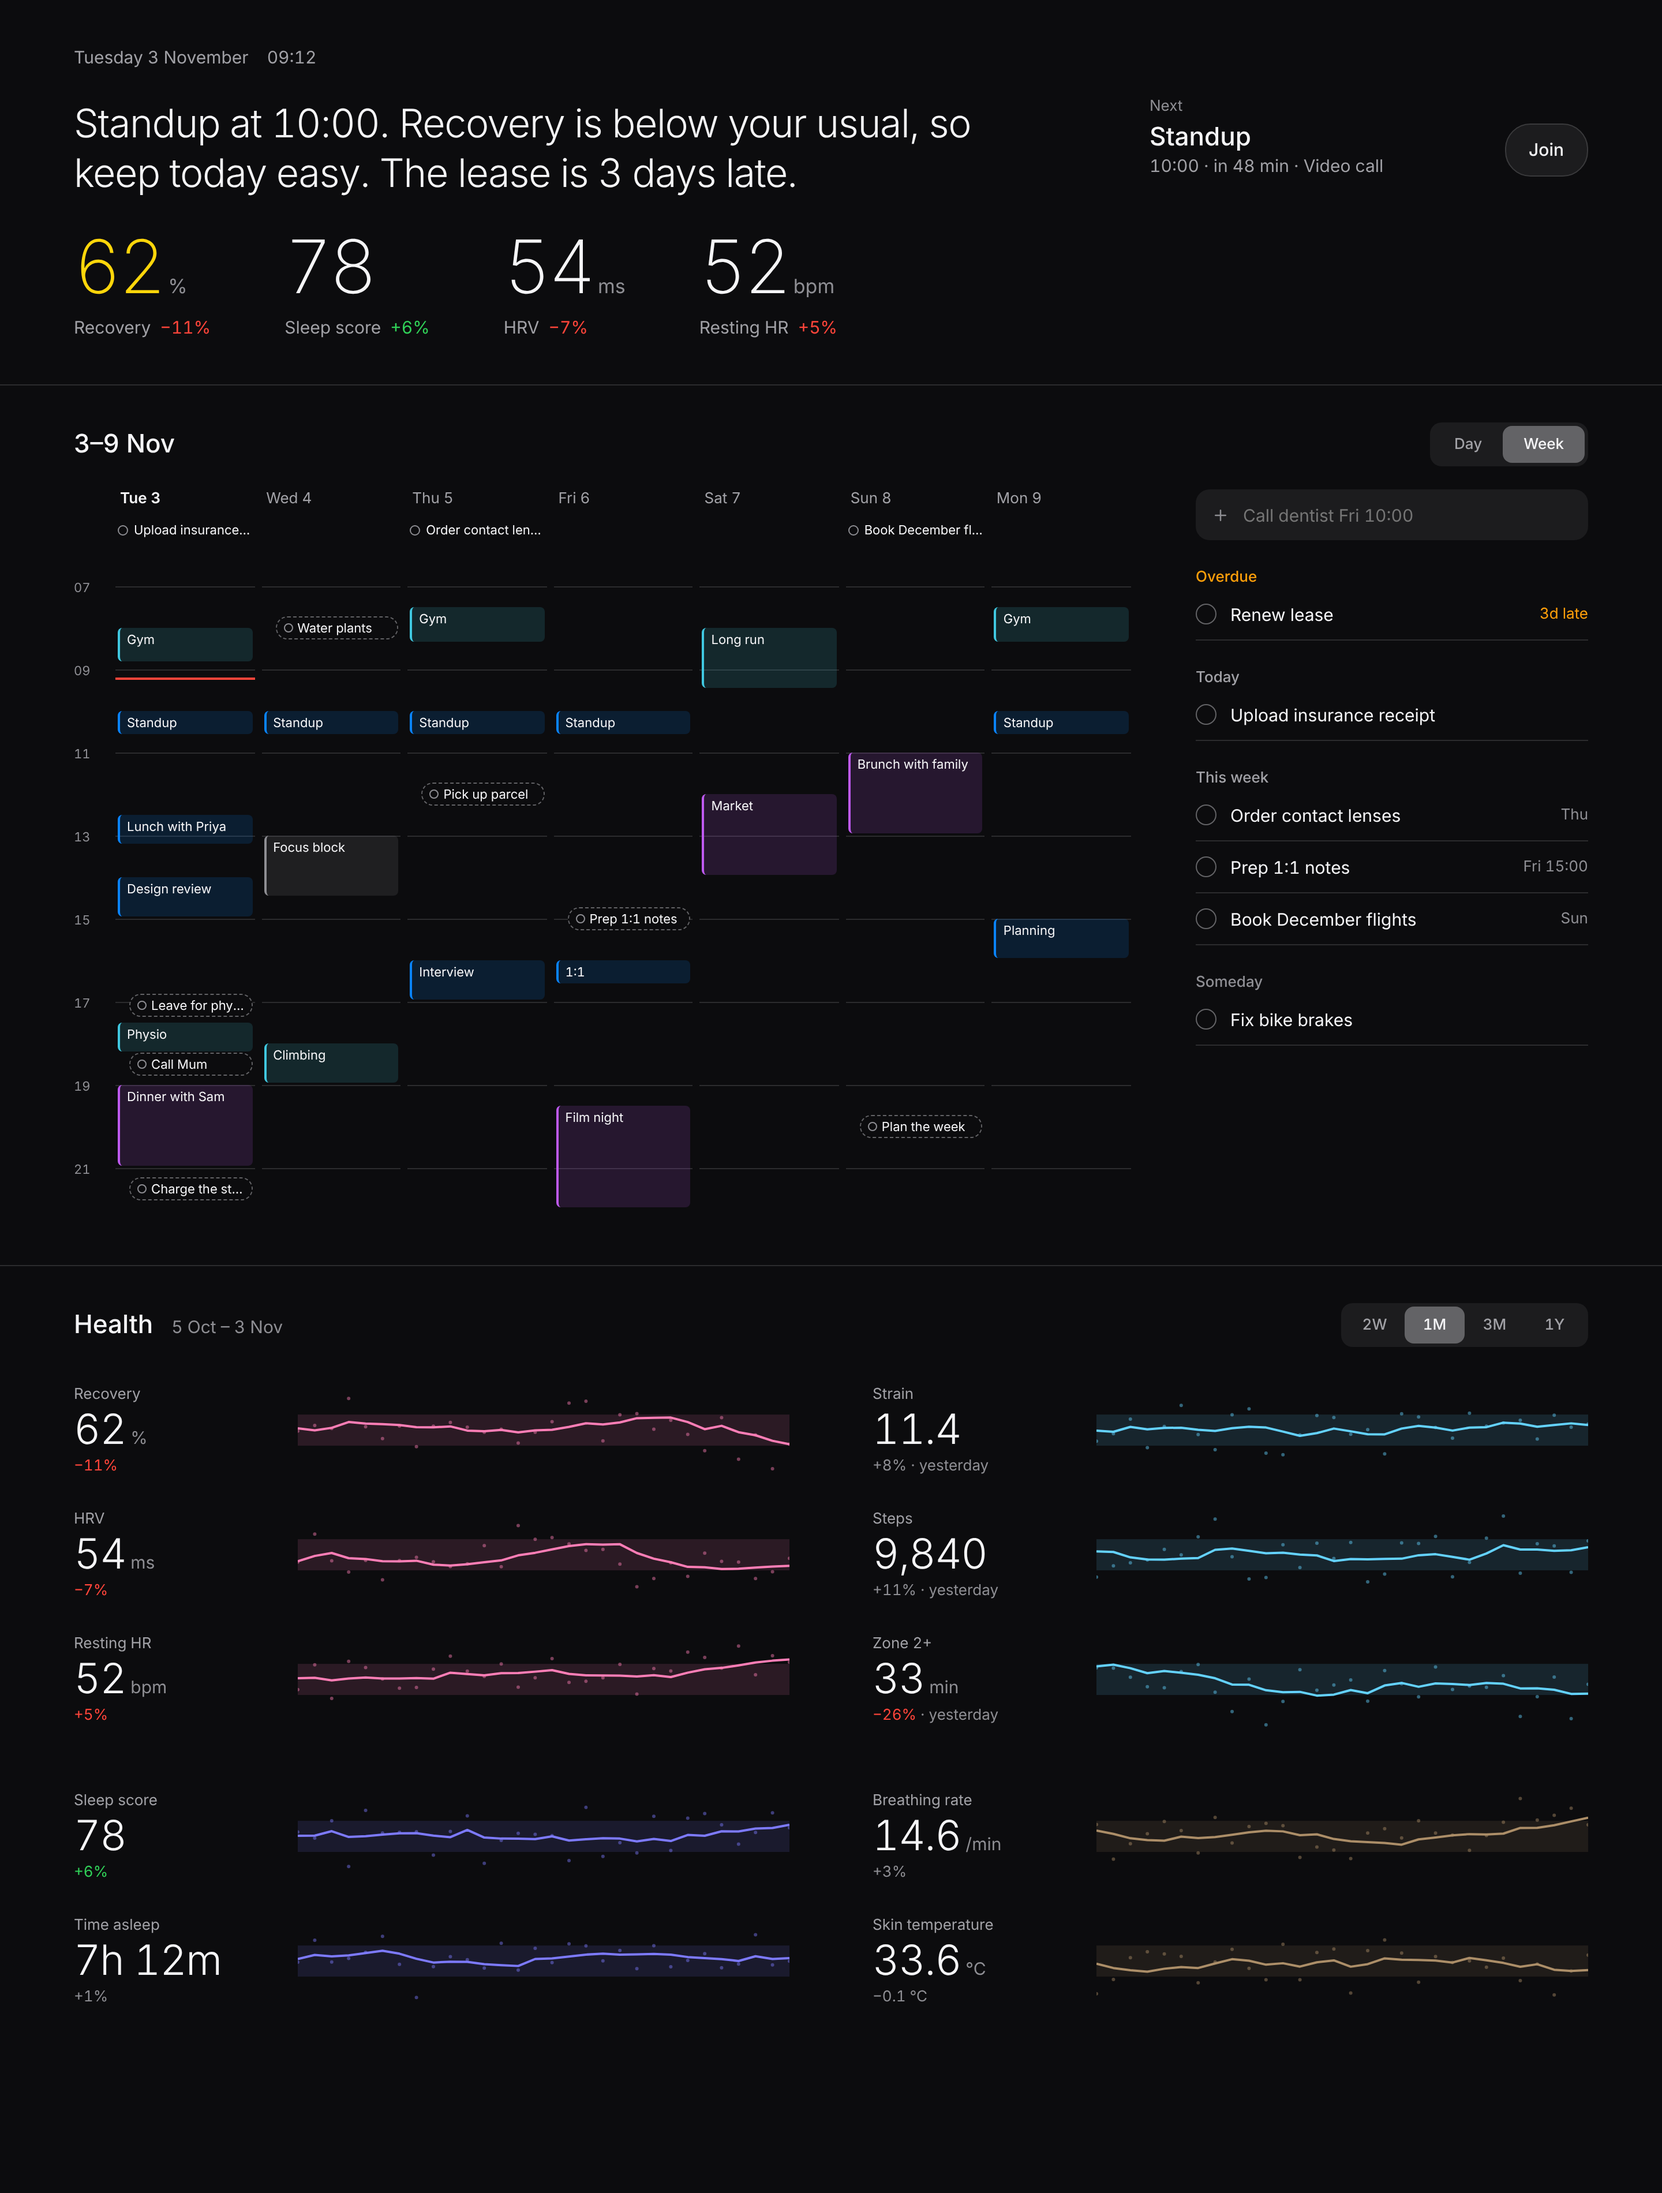
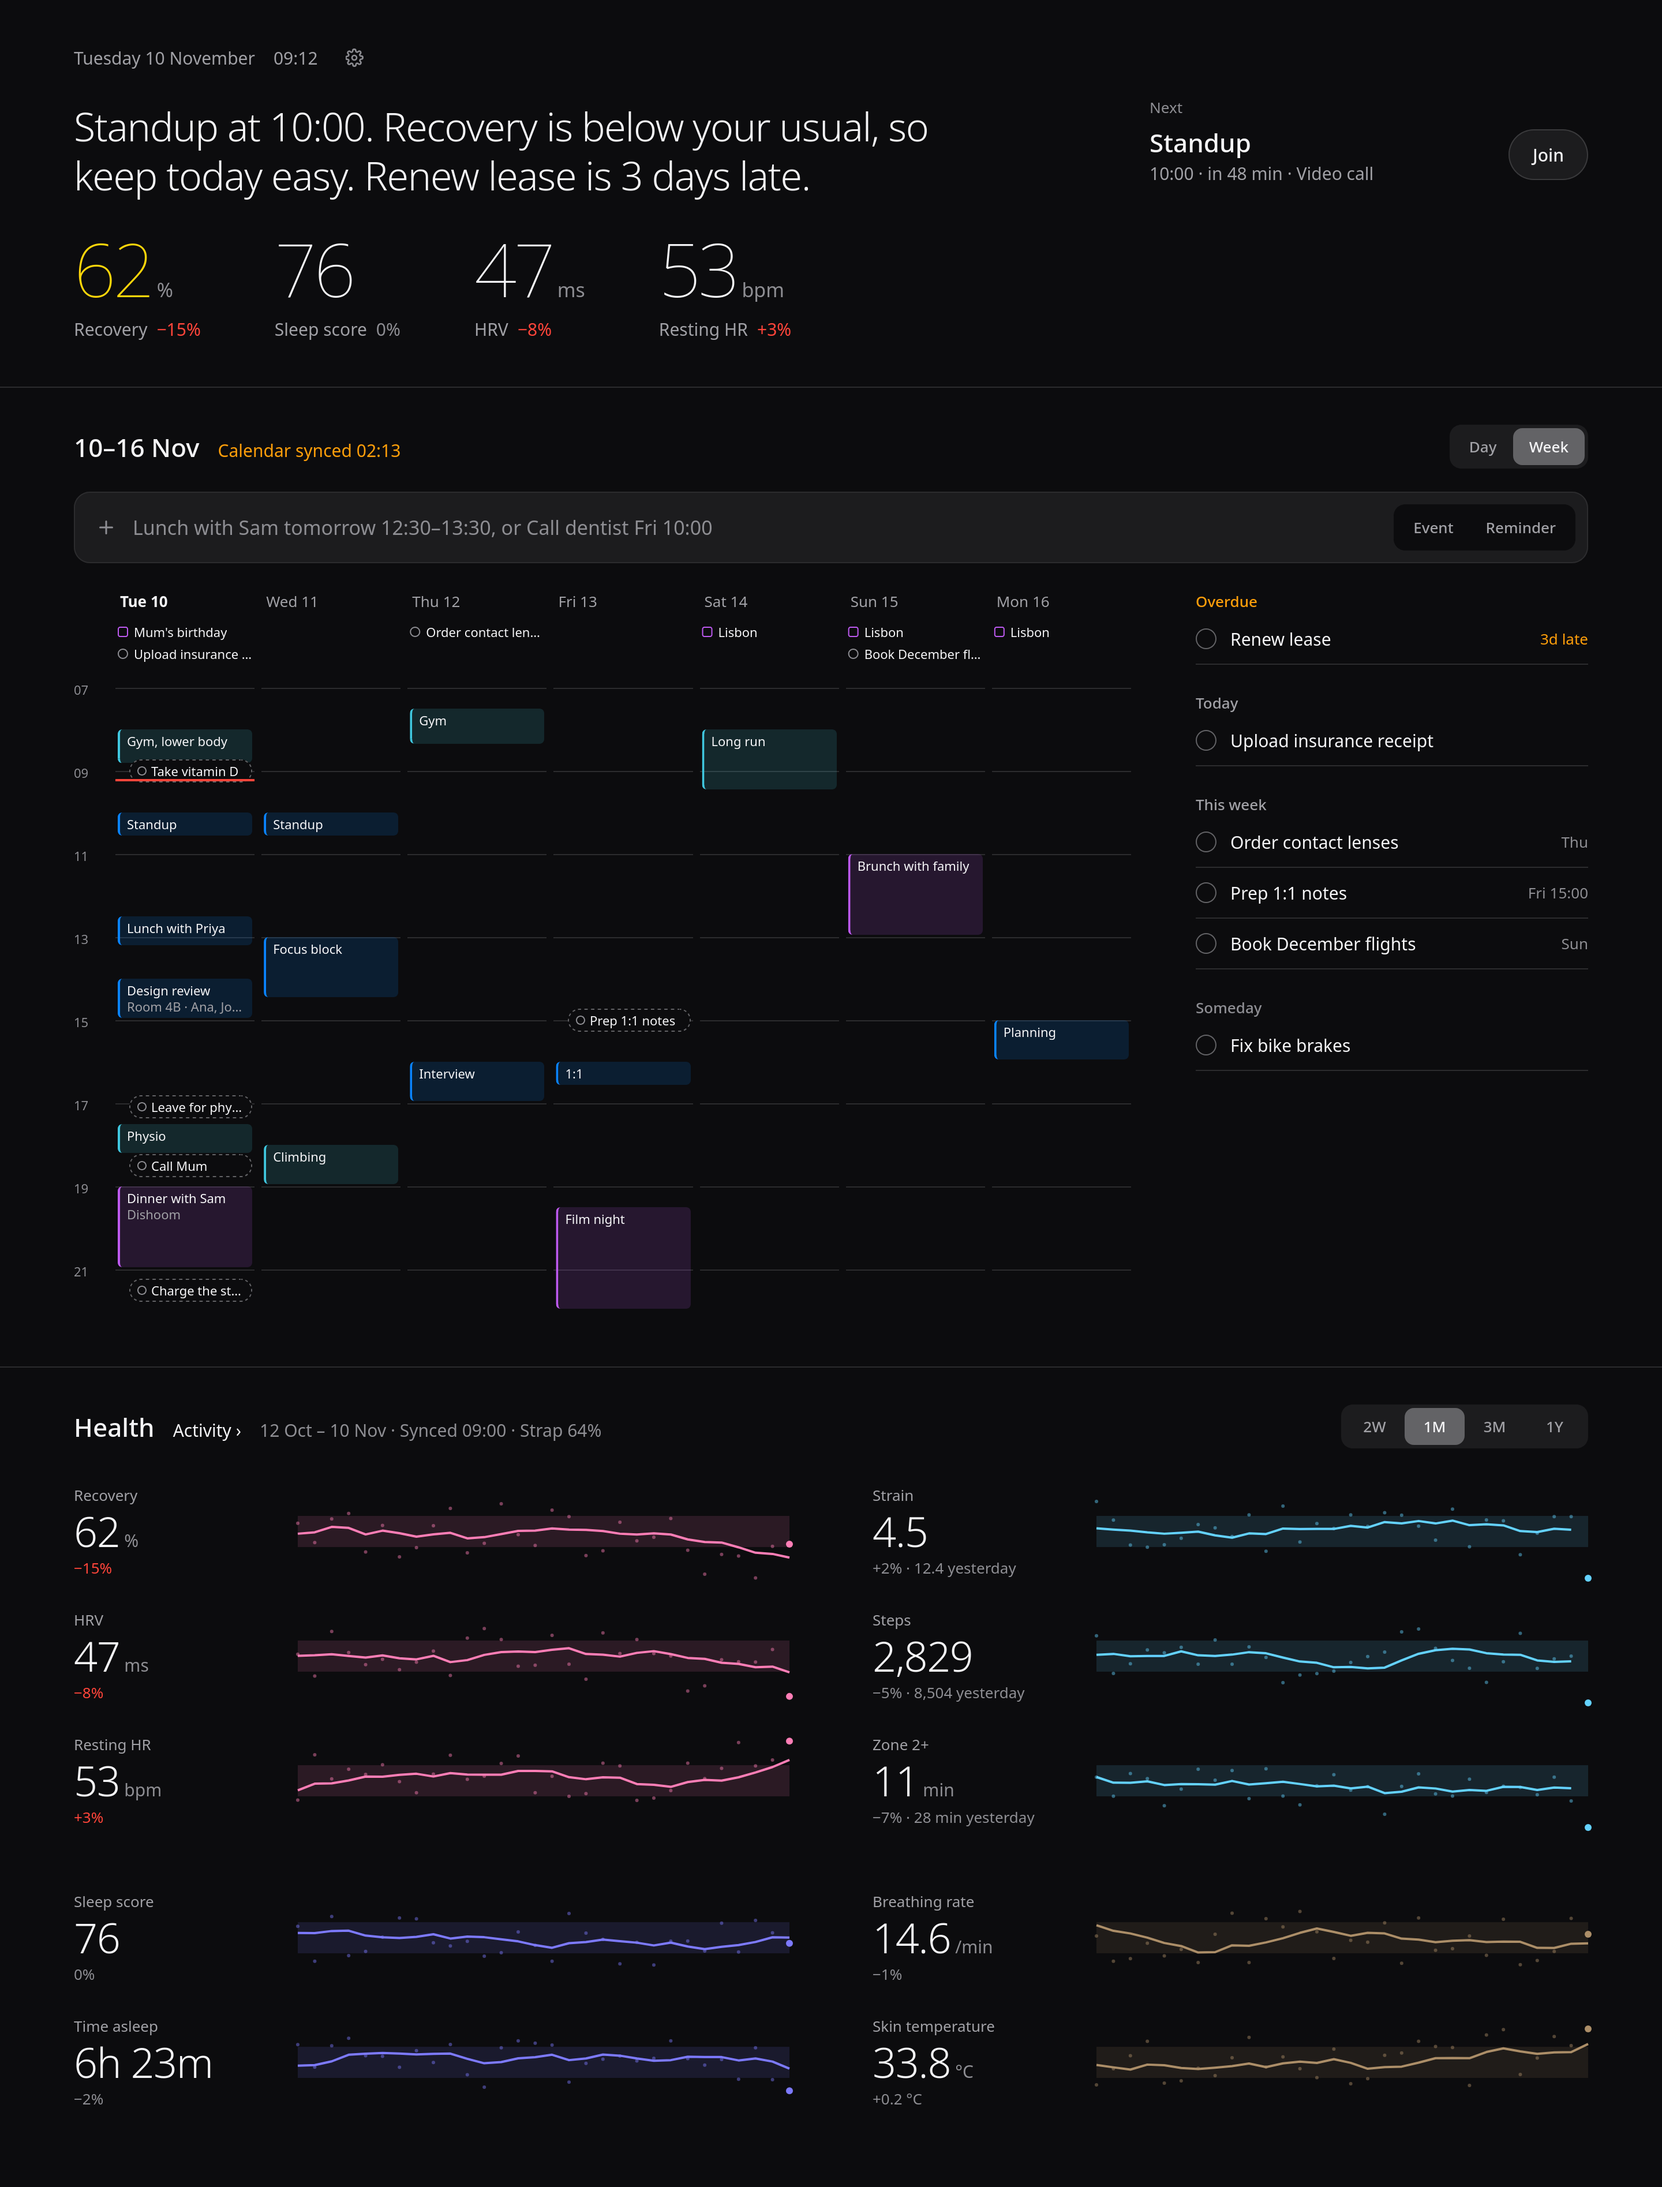
Hide the location on short Week blocks and retake the design images
A block under 34px clipped the location's line in half; it now shows
the title only, with the location still in the tooltip. The design
images are retaken from the demo, as they showed an older layout.

Claude-Session: https://claude.ai/code/session_018hxCYXK4xhTMxSLuq2rBDD

diff --git a/web/components/week.tsx b/web/components/week.tsx
@@ -14,6 +14,8 @@ import { opener } from "./day-timeline";
 const FIRST_HOUR = 7;
 const LAST_HOUR = 22;
 const HOUR_PX = 36;
+/** Two 14px lines and the padding: shorter blocks show the title only, not half a location. */
+const TWO_LINES_PX = 34;
 
 /** Opens the event panel for "events/{id}". */
 type OnOpen = (event: string) => void;
@@ -100,7 +102,9 @@ function WeekEvents(props: { day: DayAgenda; y: (min: number) => number; onOpen?
             {...opener(e, props.onOpen)}
           >
             <div class="ell">{e.title}</div>
-            {e.detail && <div class="ell week-event-detail">{e.detail}</div>}
+            {e.detail && span.end - span.start >= TWO_LINES_PX && (
+              <div class="ell week-event-detail">{e.detail}</div>
+            )}
           </div>
         );
       })}

diff --git a/test/web/week.test.tsx b/test/web/week.test.tsx
@@ -169,6 +169,15 @@ describe("WeekColumns", () => {
     expect(b?.querySelector("a")).toBeNull();
   });
 
+  test("a block too short for two lines shows the location only in its tooltip", () => {
+    const { blocks } = columns(
+      week({ events: [event("Lunch", 12 * 60, 12 * 60 + 45, { detail: "Café on Albert St" })] }),
+    );
+    const [b] = blocks(0);
+    expect(text(b)).toBe("Lunch");
+    expect(b?.title).toBe("Lunch, Café on Albert St");
+  });
+
   test("tapping a calendar event or all-day event opens it", () => {
     const opened: string[] = [];
     const { blocks, cols } = columns(
